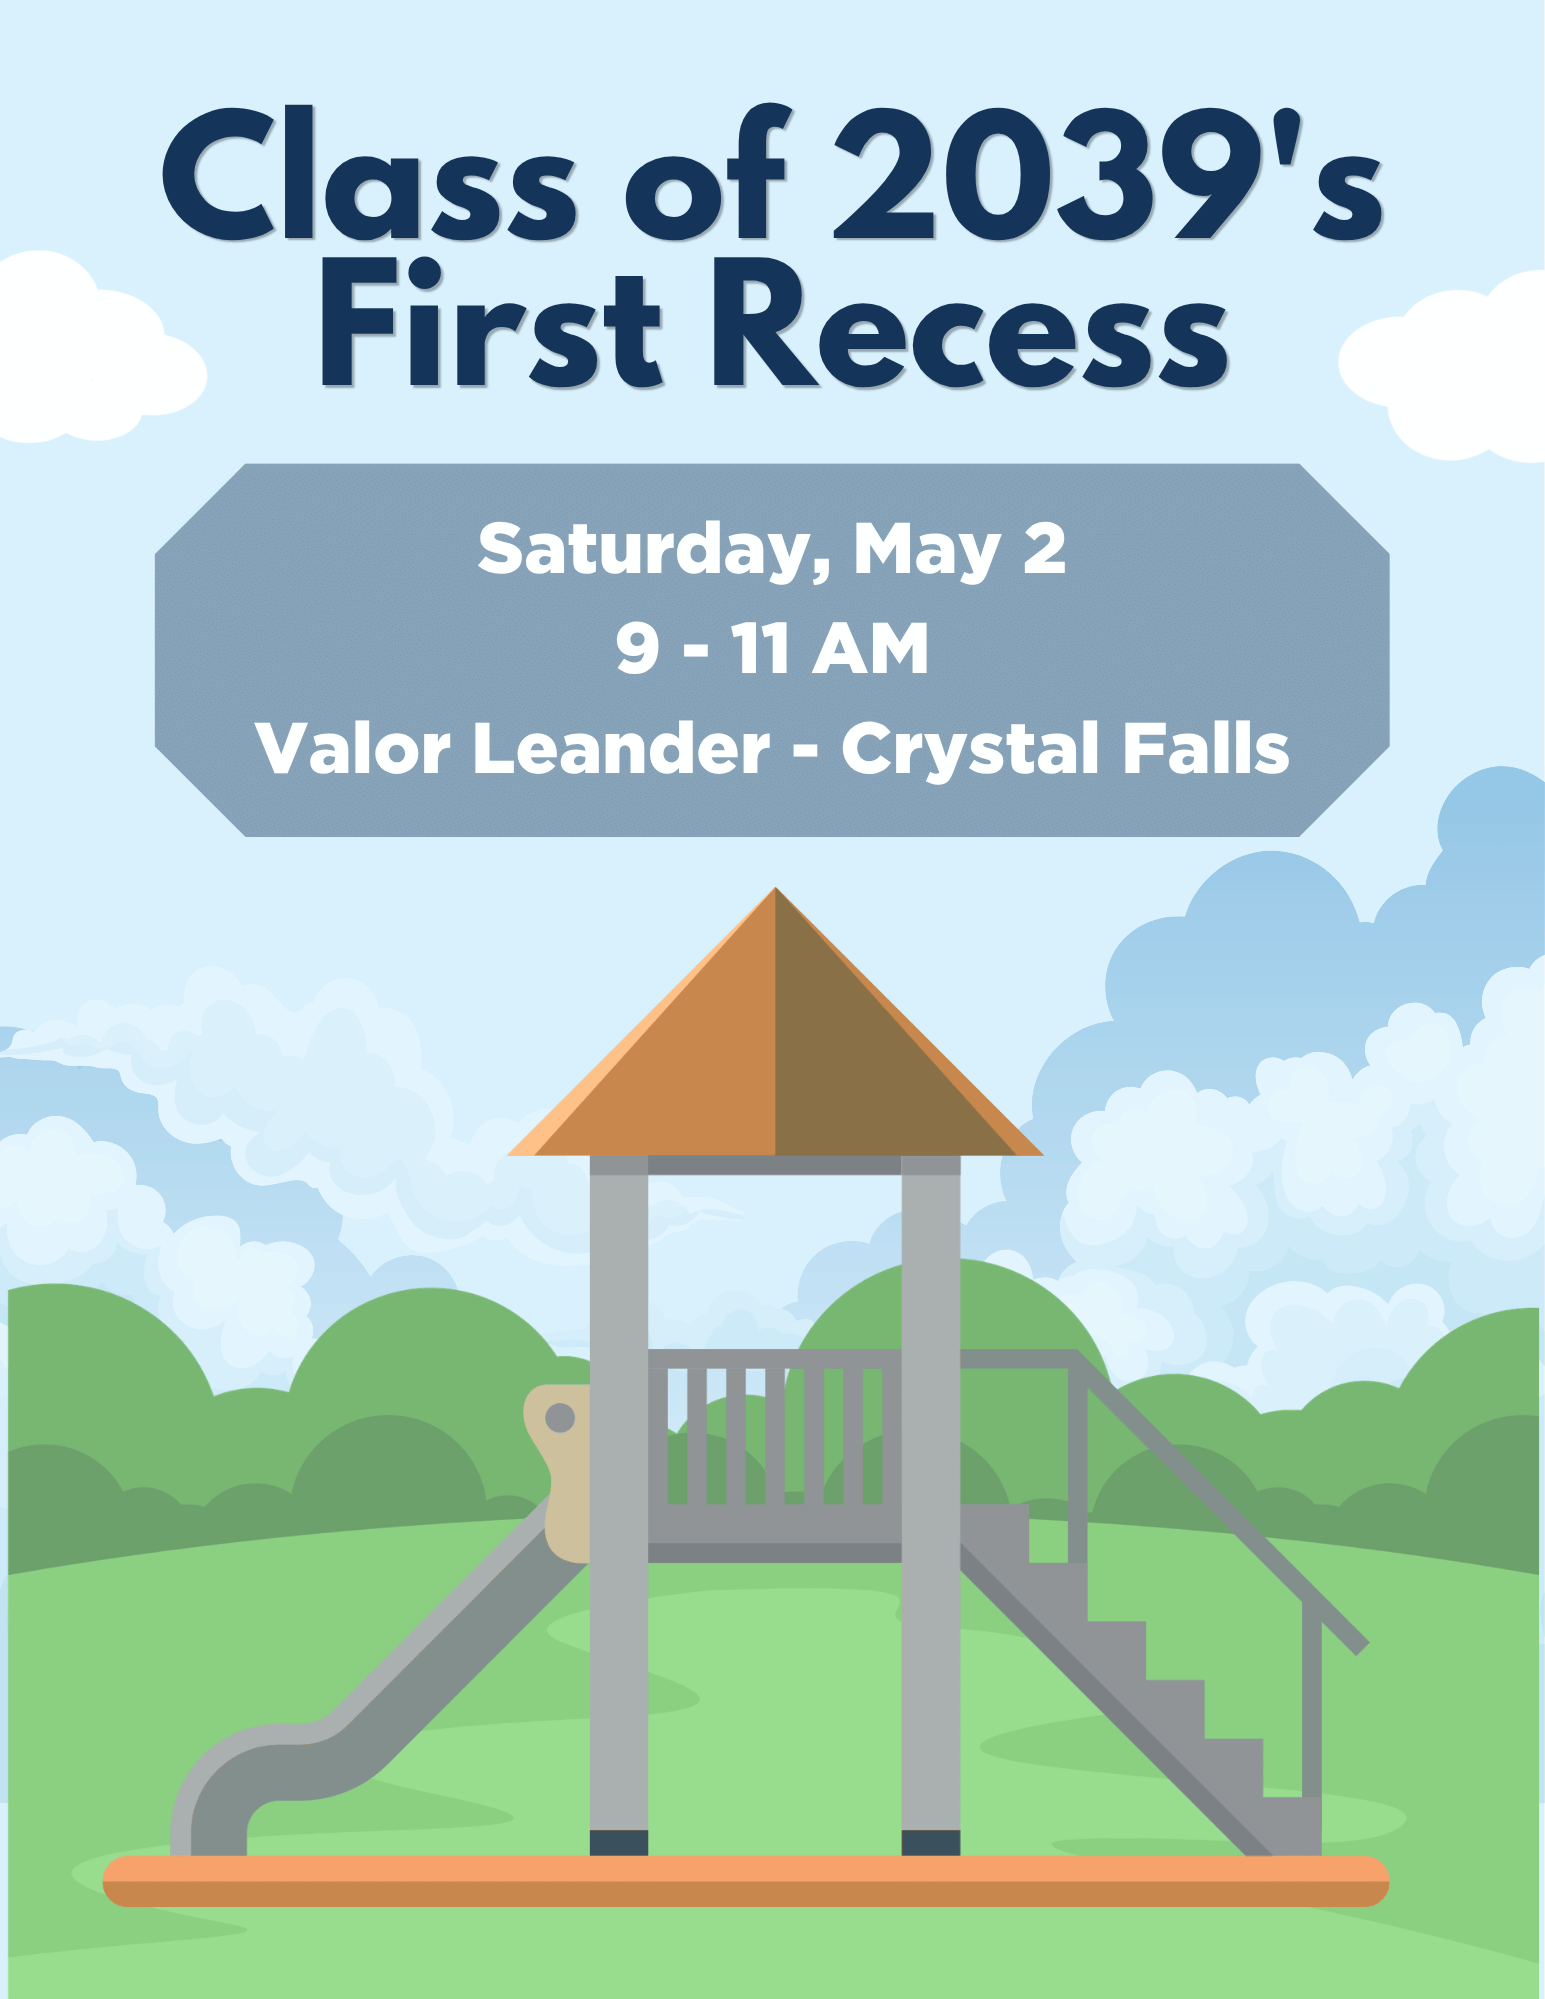
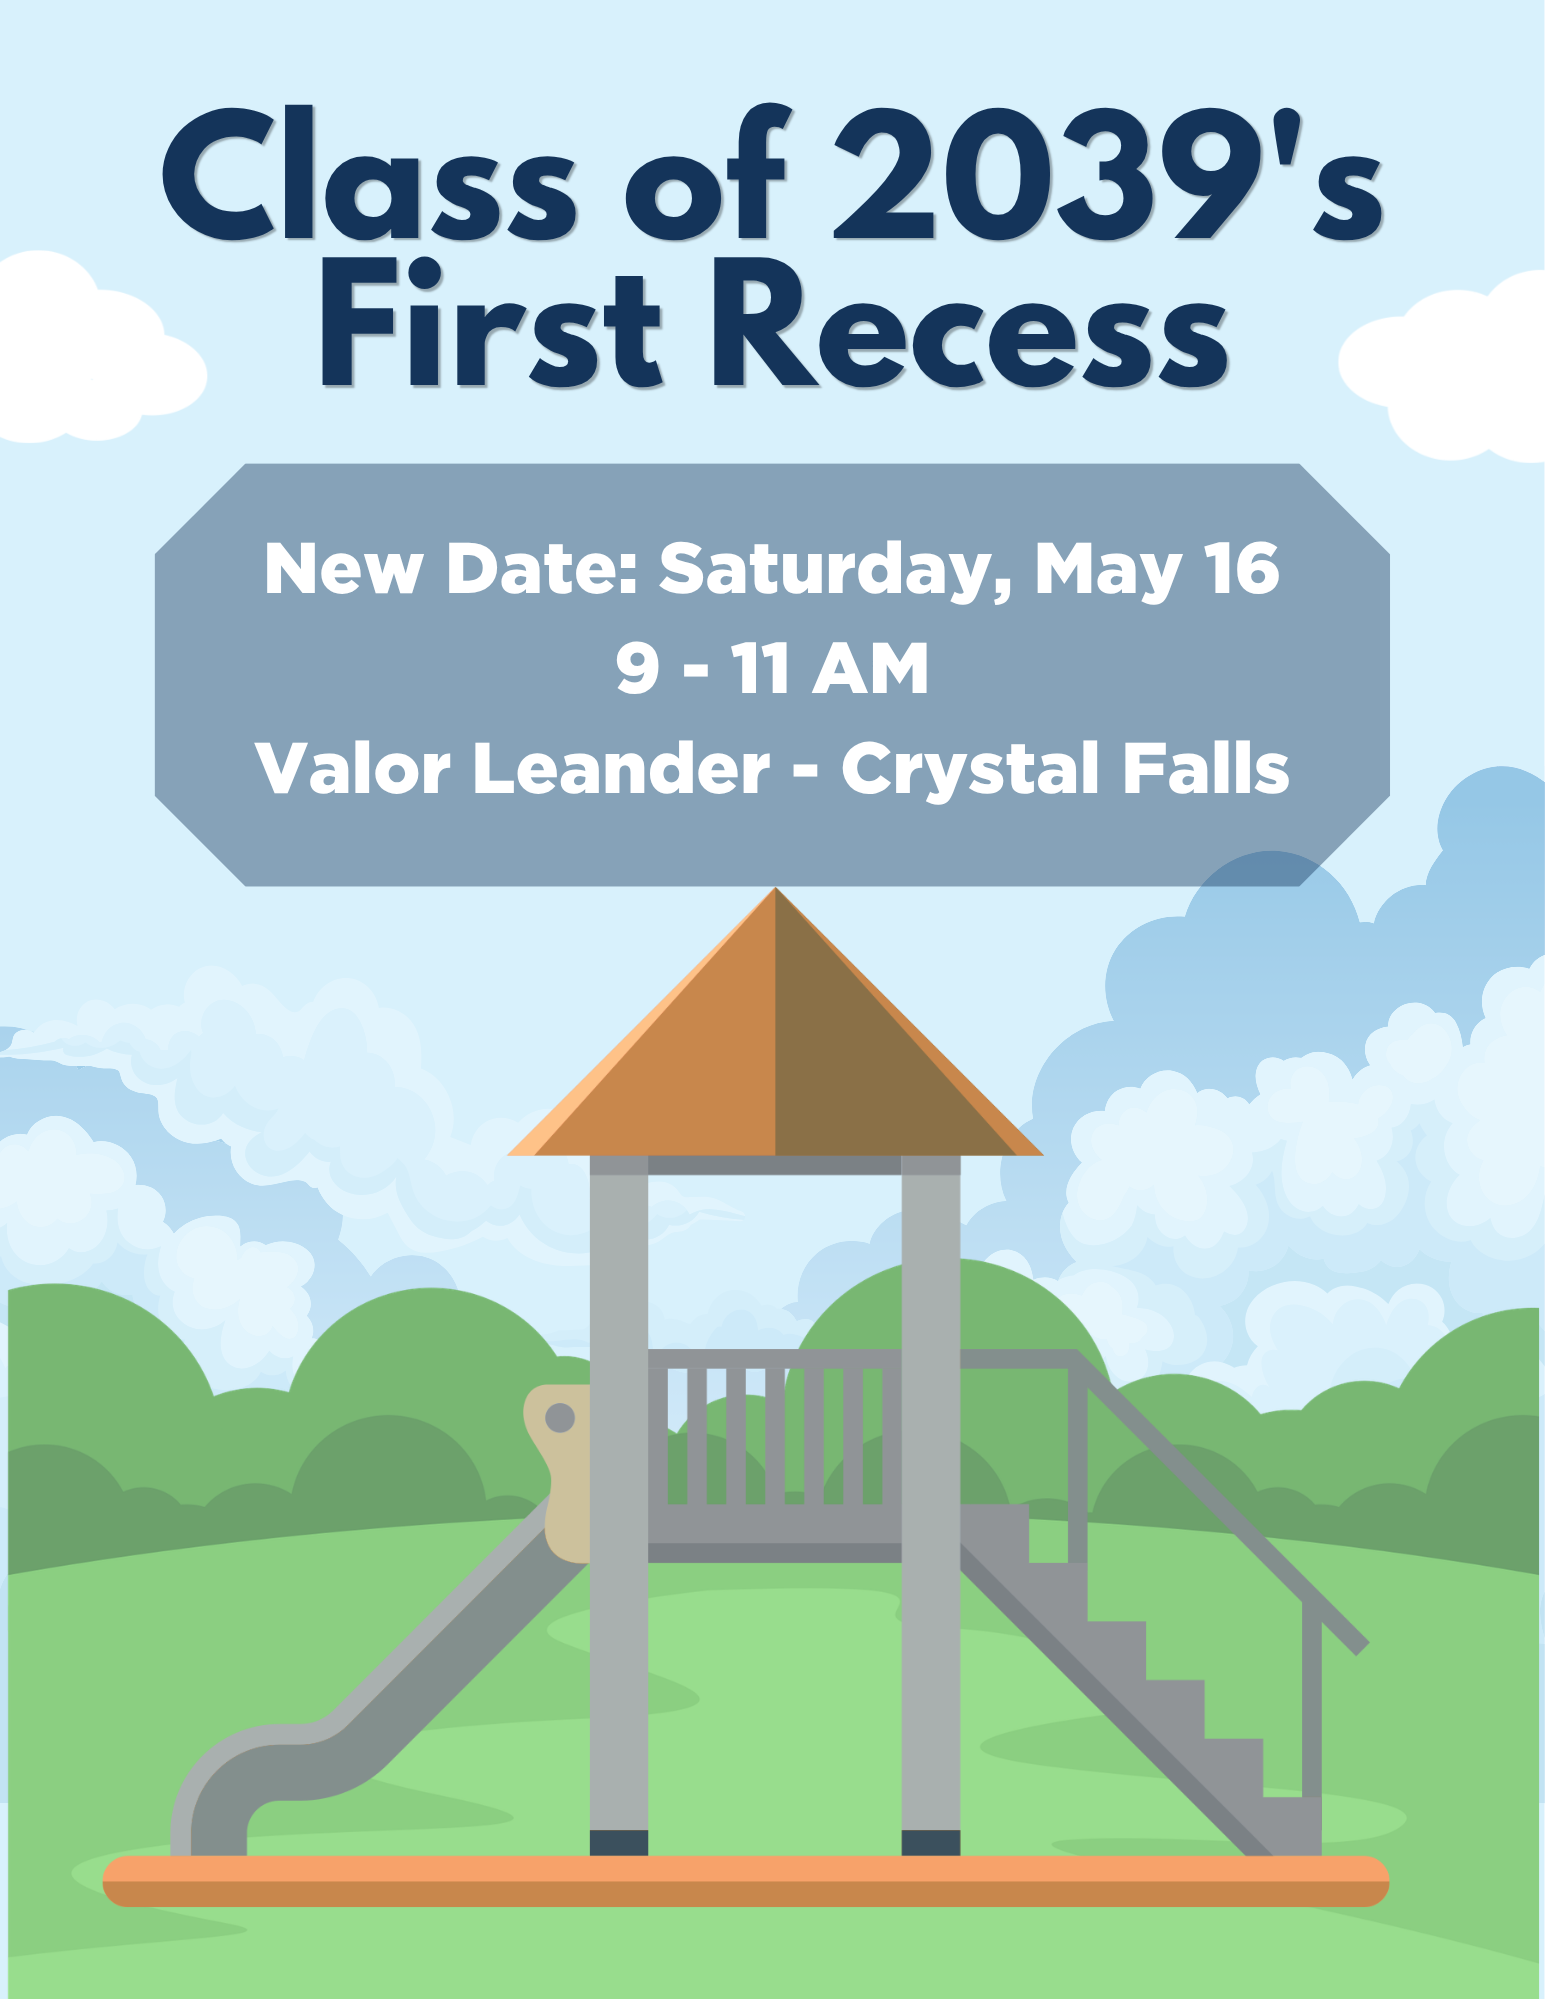
Update First Recess flyer with new date; remove Faculty Appreciation Week and May Faculty Luncheon tiles; add volunteer interest form note

Changed region(s): [[0.0932, 0.2481, 0.901, 0.4652]]

diff --git a/volunteering.html b/volunteering.html
@@ -78,14 +78,7 @@
                     <a href="https://forms.cloud.microsoft/Pages/ResponsePage.aspx?id=vcRwxcMGe0CmlJQa-0C373Uz43m_p_FAg_RiJ0sHCX5UMlBQUUlZUFdGRDhQRFpOQU1XWlg5QUIzRi4u" target="_blank" rel="noopener" class="cta-button" style="margin-top: auto;">Submit Tips &amp; Tricks</a>
                 </div>
 
-                <div style="border: 1px solid #e7e7e7; border-top: 4px solid #c40d3c; border-radius: 8px; padding: 1.6em 1.4em; background: #fff; box-shadow: 0 2px 8px rgba(0,0,0,0.07); display: flex; flex-direction: column; align-items: center; text-align: center;">
-                    <p style="font-size: 2em; margin: 0 0 0.5em; line-height: 1;">🏆</p>
-                    <h4 style="color: #333; margin: 0 0 0.3em; font-size: 1.05em; font-family: 'Libre Baskerville', Georgia, serif;">Faculty Appreciation Week</h4>
-                    <p style="font-size: 0.88em; color: #bd9b60; font-weight: 700; margin: 0 0 1.2em; letter-spacing: 0.04em;">May 4th – May 8th</p>
-                    <a href="https://www.signupgenius.com/go/10C0A4EADA92BA5FEC16-63407308-teacher?mc_cid=2c787d4df2&mc_eid=4957a8d4e3#/" target="_blank" rel="noopener" class="cta-button" style="margin-top: auto;">Sign Up</a>
-                </div>
-
-                <div style="border: 1px solid #e7e7e7; border-top: 4px solid #c40d3c; border-radius: 8px; padding: 1.6em 1.4em; background: #fff; box-shadow: 0 2px 8px rgba(0,0,0,0.07); display: flex; flex-direction: column; align-items: center; text-align: center;">
+<div style="border: 1px solid #e7e7e7; border-top: 4px solid #c40d3c; border-radius: 8px; padding: 1.6em 1.4em; background: #fff; box-shadow: 0 2px 8px rgba(0,0,0,0.07); display: flex; flex-direction: column; align-items: center; text-align: center;">
                     <p style="font-size: 2em; margin: 0 0 0.5em; line-height: 1;">🗂️</p>
                     <h4 style="color: #333; margin: 0 0 0.3em; font-size: 1.05em; font-family: 'Libre Baskerville', Georgia, serif;">Filing Assistance</h4>
                     <p style="font-size: 0.88em; color: #bd9b60; font-weight: 700; margin: 0 0 1.2em; letter-spacing: 0.04em;">Crystal Falls Campus</p>
@@ -106,12 +99,6 @@
                     <a href="https://www.signupgenius.com/go/10C0A4EADA92BA5FEC16-63883374-lost" target="_blank" rel="noopener" class="cta-button" style="margin-top: auto;">Sign Up</a>
                 </div>
 
-                <div style="border: 1px solid #e7e7e7; border-top: 4px solid #c40d3c; border-radius: 8px; padding: 1.6em 1.4em; background: #fff; box-shadow: 0 2px 8px rgba(0,0,0,0.07); display: flex; flex-direction: column; align-items: center; text-align: center;">
-                    <p style="font-size: 2em; margin: 0 0 0.5em; line-height: 1;">🍽️</p>
-                    <h4 style="color: #333; margin: 0 0 0.3em; font-size: 1.05em; font-family: 'Libre Baskerville', Georgia, serif;">May Faculty Luncheon</h4>
-                    <p style="font-size: 0.88em; color: #bd9b60; font-weight: 700; margin: 0 0 1.2em; letter-spacing: 0.04em;">Setup &amp; Takedown</p>
-                    <a href="https://www.signupgenius.com/go/10C0A4EADA92BA5FEC16-61372214-mayfaculty#/" target="_blank" rel="noopener" class="cta-button" style="margin-top: auto;">Sign Up</a>
-                </div>
 
                 <div style="border: 1px solid #e7e7e7; border-top: 4px solid #c40d3c; border-radius: 8px; padding: 1.6em 1.4em; background: #fff; box-shadow: 0 2px 8px rgba(0,0,0,0.07); display: flex; flex-direction: column; align-items: center; text-align: center;">
                     <p style="font-size: 2em; margin: 0 0 0.5em; line-height: 1;">🎊</p>
@@ -171,6 +158,7 @@
                 information to match volunteers with opportunities that fit their schedule and strengths.
             </p>
             <a href="https://forms.office.com/Pages/ResponsePage.aspx?id=vcRwxcMGe0CmlJQa-0C3779MJmRf8gVLtiUApH3aT7tUQUpWVzNETEFOUFdQRVcyQzRDMFkxV0FUMC4u" target="_blank" rel="noopener" class="cta-button">Fill Out Volunteer Interest Form</a>
+            <p style="margin: 0.9em 0 0; font-size: 0.9em; color: #666; font-style: italic;">Please wait to fill out the interest form for the incoming 2026–2027 school year — there will be a new form added this summer.</p>
 
             <h3>Ways to Get Involved</h3>
             <div style="display: grid; grid-template-columns: repeat(auto-fill, minmax(220px, 1fr)); gap: 1em; margin-top: 1em;">

diff --git a/family-socials.html b/family-socials.html
@@ -84,7 +84,7 @@
                 <div style="display: inline-flex; align-items: center; gap: 0.6em; background: #fff8e1; border: 1px solid #f0d060; border-left: 4px solid #e6a800; border-radius: 6px; padding: 0.75em 1.2em; margin-bottom: 1.4em; max-width: 520px; text-align: left;">
                     <span style="font-size: 1.3em; flex-shrink: 0;">⚠️</span>
                     <p style="margin: 0; font-size: 0.93em; color: #6b4c00; line-height: 1.6;">
-                        <strong>Rescheduled due to wet weather.</strong> The Class of 2039's First Recess has been postponed. A new date will be announced soon — stay tuned!
+                        <strong>Rescheduled due to wet weather.</strong> The Class of 2039's First Recess has been moved to <strong>Saturday, May 16, 9–11 AM</strong> at Valor Leander – Crystal Falls.
                     </p>
                 </div>
 